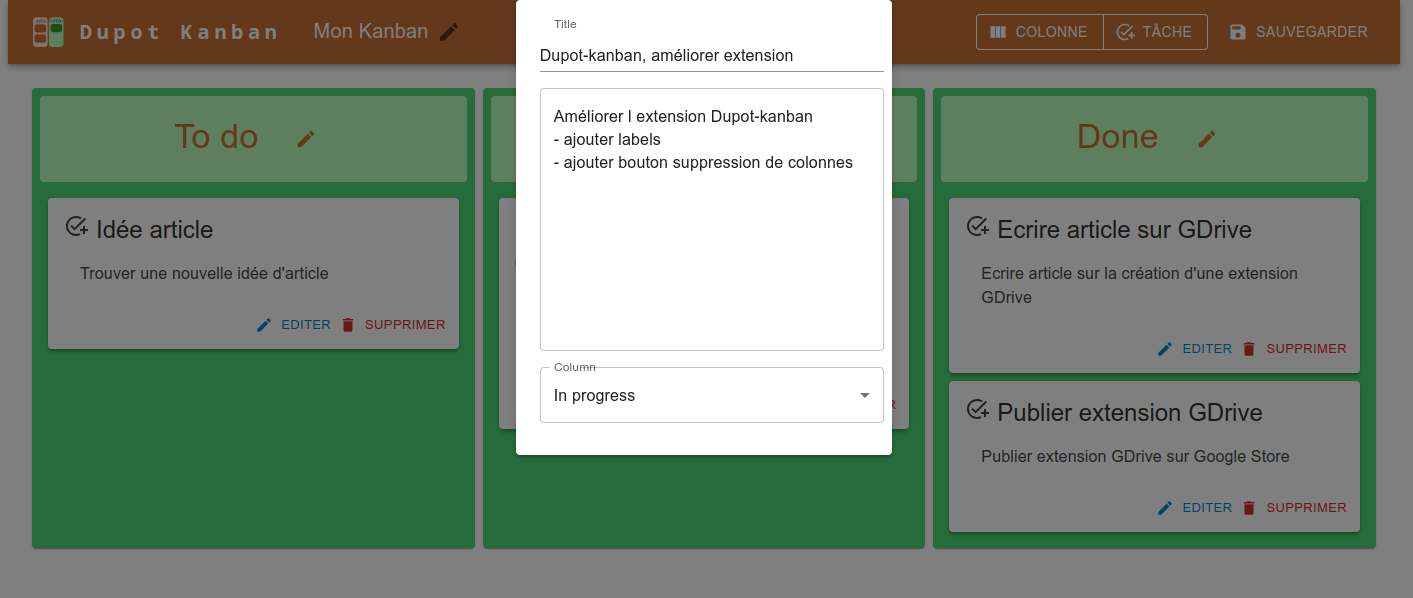
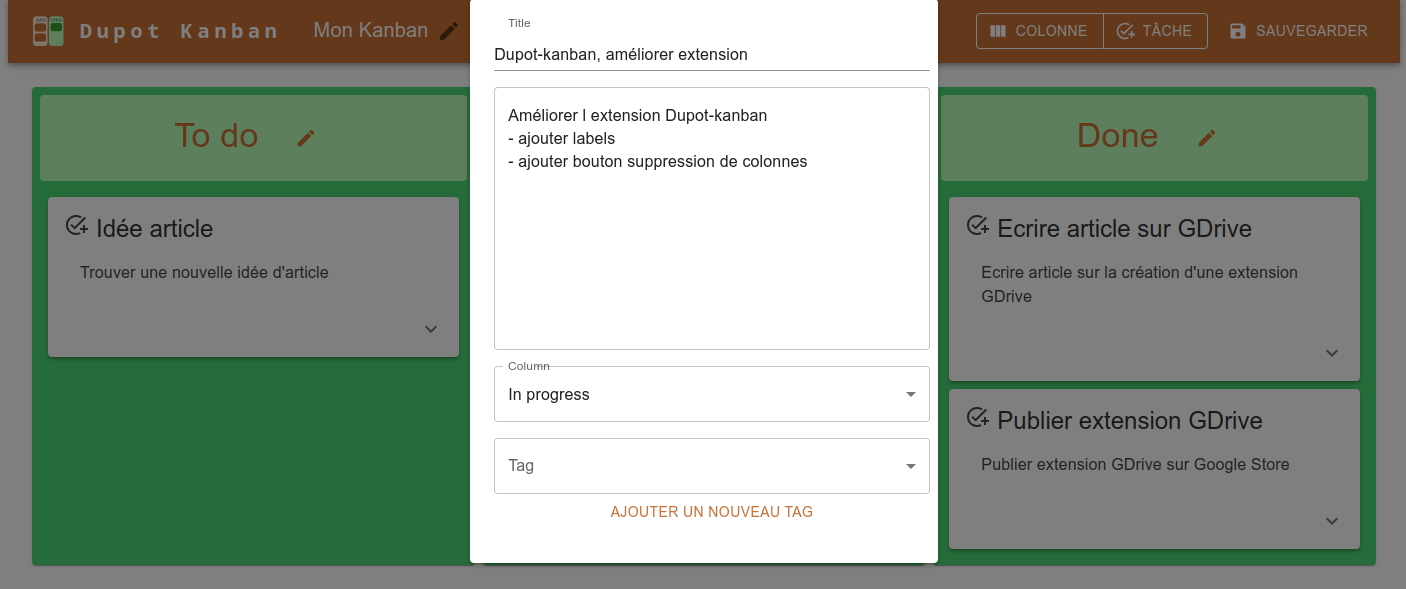
improve UI : + label

diff --git a/frontend/kanban-ui/src/components/Task.jsx b/frontend/kanban-ui/src/components/Task.jsx
@@ -8,8 +8,39 @@ import EditIcon from '@mui/icons-material/Edit';
 import DeleteIcon from '@mui/icons-material/Delete';
 import FormatListBulletedIcon from '@mui/icons-material/FormatListBulleted';
 import AddTaskIcon from '@mui/icons-material/AddTask';
+import Stack from '@mui/material/Stack';
+import Chip from '@mui/material/Chip';
+
+import Accordion from '@mui/material/Accordion';
+import AccordionActions from '@mui/material/AccordionActions';
+import AccordionSummary from '@mui/material/AccordionSummary';
+import AccordionDetails from '@mui/material/AccordionDetails';
+
+import { styled } from '@mui/material/styles';
+
+import ExpandMoreIcon from '@mui/icons-material/ExpandMore';
+import Collapse from '@mui/material/Collapse';
+
+import MoreVertIcon from '@mui/icons-material/MoreVert';
+
+const ExpandMore = styled((props) => {
+    const { expand, ...other } = props;
+    return <IconButton {...other} />;
+})(({ theme, expand }) => ({
+    transform: !expand ? 'rotate(0deg)' : 'rotate(180deg)',
+    marginLeft: 'auto',
+    transition: theme.transitions.create('transform', {
+        duration: theme.transitions.duration.shortest,
+    }),
+}));
+
 
 export default function Task(props) {
+    const [expanded, setExpanded] = React.useState(false);
+
+    const handleExpandClick = () => {
+        setExpanded(!expanded);
+    };
 
     const backgroundColor = () => {
         return props.taskToDeleteAsked.id == props.task.id ? '#fcbacb' : '#fff'
@@ -31,7 +62,10 @@ export default function Task(props) {
                                 {props.task.content}
                             </Typography>
                         </Box>
+
+
                     </CardContent>
+
                     <CardActions disableSpacing
                         sx={{
                             alignSelf: "stretch",
@@ -41,18 +75,42 @@ export default function Task(props) {
                             p: 1,
                         }}>
 
+                        <Grid marginLeft={2} justifyContent="flex" direction="row" spacing={1} >
+                            {props.task.tagList &&
+                                props.task.tagList.map((tagLoop) =>
+                                    <Chip sx={{ marginRight: 1 }} color="primary" label={tagLoop} />)}
 
 
-                        <Button size="small" color='info' onClick={() => props.handleTaskEdit(props.task)} startIcon={<EditIcon />}>
-                            Editer
-                        </Button>
+                        </Grid>
 
-                        <Button size="small" color="error" onClick={() => props.handleTaskDelete(props.task)} startIcon={<DeleteIcon />}>
-                            Supprimer
-                        </Button>
-
+                        <ExpandMore
+                            expand={expanded}
+                            onClick={handleExpandClick}
+                            aria-expanded={expanded}
+                            aria-label="show more"
+                        >
+                            <ExpandMoreIcon />
+                        </ExpandMore>
 
                     </CardActions>
+
+                    <Collapse in={expanded} timeout="auto" unmountOnExit>
+                        <CardContent>
+                            <Button size="small" color='info' onClick={() => {
+                                setExpanded(false)
+                                props.handleTaskEdit(props.task)
+                            }} startIcon={<EditIcon />}>
+                                Editer
+                            </Button>
+
+                            <Button size="small" color="error" onClick={() => {
+                                setExpanded(false)
+                                props.handleTaskDelete(props.task)
+                            }} startIcon={<DeleteIcon />}>
+                                Supprimer
+                            </Button>
+                        </CardContent>
+                    </Collapse>
                 </Card>
             </Box>
         </React.Fragment>

diff --git a/frontend/kanban-ui/src/components/TagInput.jsx b/frontend/kanban-ui/src/components/TagInput.jsx
@@ -1,0 +1,111 @@
+import * as React from 'react';
+import { useTheme } from '@mui/material/styles';
+import Box from '@mui/material/Box';
+import OutlinedInput from '@mui/material/OutlinedInput';
+import InputLabel from '@mui/material/InputLabel';
+import MenuItem from '@mui/material/MenuItem';
+import FormControl from '@mui/material/FormControl';
+import Select from '@mui/material/Select';
+import Chip from '@mui/material/Chip';
+import Button from '@mui/material/Button';
+
+const ITEM_HEIGHT = 48;
+const ITEM_PADDING_TOP = 8;
+const MenuProps = {
+    PaperProps: {
+        style: {
+            maxHeight: ITEM_HEIGHT * 4.5 + ITEM_PADDING_TOP,
+            width: 250,
+        },
+    },
+};
+
+const names = [
+    'Oliver Hansen',
+    'Van Henry',
+    'April Tucker',
+    'Ralph Hubbard',
+    'Omar Alexander',
+    'Carlos Abbott',
+    'Miriam Wagner',
+    'Bradley Wilkerson',
+    'Virginia Andrews',
+    'Kelly Snyder',
+];
+
+function getStyles(name, personName, theme) {
+    return {
+        fontWeight:
+            personName.indexOf(name) === -1
+                ? theme.typography.fontWeightRegular
+                : theme.typography.fontWeightMedium,
+    };
+}
+
+export default function TagInput(props) {
+    const theme = useTheme();
+
+    const handleChange = (event) => {
+        const {
+            target: { value },
+        } = event;
+
+
+        let tagList = typeof value === 'string' ? value.split(',') : value
+
+        props.handleUpdateTagList(tagList)
+
+
+    };
+
+    const createTag = () => {
+        let newTag = prompt('Creer nouveau TAG')
+
+        let taskTagList = [...getValue()]
+        taskTagList.push(newTag)
+
+        props.handleUpdateTagList(taskTagList)
+
+        props.handleAddTag(newTag)
+
+    }
+
+    const getValue = () => {
+        return props.value != null ? props.value : []
+    }
+
+    return (
+        <div>
+            <FormControl sx={{ m: 0, mt: 2, width: "100%" }}>
+                <InputLabel id="demo-multiple-chip-label">Tag</InputLabel>
+                <Select
+                    labelId="demo-multiple-chip-label"
+                    id="demo-multiple-chip"
+                    multiple
+                    value={getValue()}
+                    onChange={handleChange}
+                    input={<OutlinedInput id="select-multiple-chip" label="Chip" />}
+                    renderValue={(selected) => (
+                        <Box sx={{ display: 'flex', flexWrap: 'wrap', gap: 0.5 }}>
+                            {selected.map((value) => (
+                                <Chip key={value} label={value} />
+                            ))}
+                        </Box>
+                    )}
+                    MenuProps={MenuProps}
+                >
+                    {props.tagList.map((name) => (
+                        <MenuItem
+                            key={name}
+                            value={name}
+                            style={getStyles(name, getValue(), theme)}
+                        >
+                            {name}
+                        </MenuItem>
+                    ))}
+                </Select>
+                <Button onClick={() => createTag()}>Ajouter un nouveau TAG</Button>
+            </FormControl>
+        </div>
+    );
+}

diff --git a/frontend/kanban-ui/src/App.jsx b/frontend/kanban-ui/src/App.jsx
@@ -53,6 +53,7 @@ function App() {
 
   const [taskColumnList, setColumnList] = useState([]);
   const [taskList, setTaskList] = useState([]);
+  const [tagList, setTagList] = useState([])
 
   axios.defaults.headers.common['Access-Control-Allow-Origin'] = '*';
 
@@ -124,7 +125,8 @@ function App() {
     let newTask = {
       id: taskList.length + 1,
       title: 'Nouveau tache',
-      content: 'Tache description'
+      content: 'Tache description',
+      tagList: []
     }
 
     let newTaskList = [...taskList]
@@ -215,6 +217,13 @@ function App() {
     setTaskToDeleteAsked({})
   }
 
+  const addTag = (newTag) => {
+    let newTagList = [...tagList]
+    newTagList.push(newTag)
+
+    setTagList(newTagList)
+  }
+
   return (
     <>
       {taskColumnList.length > 0 &&
@@ -229,7 +238,7 @@ function App() {
             <TitleForm opened={Object.keys(titleEdited).length > 0} title={titleEdited.title} handleTitleEdit={editTitle} handleSave={saveEditedTitle} handleClose={closeTitleForm} />
 
             <TaskColumnForm opened={Object.keys(columnEdited).length > 0} column={columnEdited} handleColumnEdit={editColumn} handleSave={saveEditedColumn} handleClose={closeColumnForm} />
-            <TaskForm taskColumnList={taskColumnList} opened={Object.keys(taskEdited).length > 0} task={taskEdited} handleTaskEdit={editTask} handleSave={saveEditedTask} handleClose={closeTaskForm} />
+            <TaskForm tagList={tagList} handleAddTag={addTag} taskColumnList={taskColumnList} opened={Object.keys(taskEdited).length > 0} task={taskEdited} handleTaskEdit={editTask} handleSave={saveEditedTask} handleClose={closeTaskForm} />
             <Container maxWidth="lg" sx={{ margin: 0, mt: 3, padding: 0 }}>
               <Stack direction="row" spacing={1} padding={0} useFlexGap justifyContent="space-evenly">
 

diff --git a/frontend/kanban-ui/src/components/TaskForm.jsx b/frontend/kanban-ui/src/components/TaskForm.jsx
@@ -1,6 +1,7 @@
 import { Box, Card, CardContent, FormControl, Input, InputLabel, MenuItem, Modal, Select, TextField, Typography } from '@mui/material';
 import React from 'react';
 import Task from './Task';
+import TagInput from './TagInput';
 
 export default function TaskForm(props) {
 
@@ -26,6 +27,13 @@ export default function TaskForm(props) {
 
         props.handleTaskEdit(newTask);
 
+    }
+
+    const updateTagList = (tagList) => {
+        let newTask = { ...props.task }
+        newTask.tagList = tagList
+
+        props.handleTaskEdit(newTask);
     }
 
     return (
@@ -78,6 +86,8 @@ export default function TaskForm(props) {
                                 }
 
                             </Select>
+
+                            <TagInput handleUpdateTagList={updateTagList} value={props.task.tagList} tagList={props.tagList} handleAddTag={props.handleAddTag} />
                         </FormControl>
 
 

diff --git a/homepage/index.php b/homepage/index.php
@@ -121,7 +121,7 @@
             <img src="homepage/images/Screenshot_main.png" />
           </p>
           <p class="left-align light">
-            <img src="homepage/images/Screenshot_editTask.png" />
+            <img src="homepage/images/Screenshot_editTask2.png" />
           </p>
         </div>
       </div>
